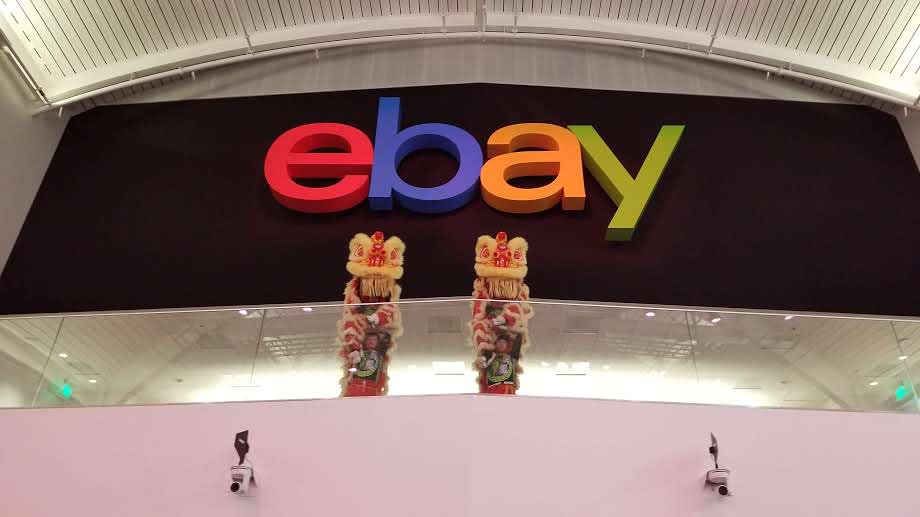
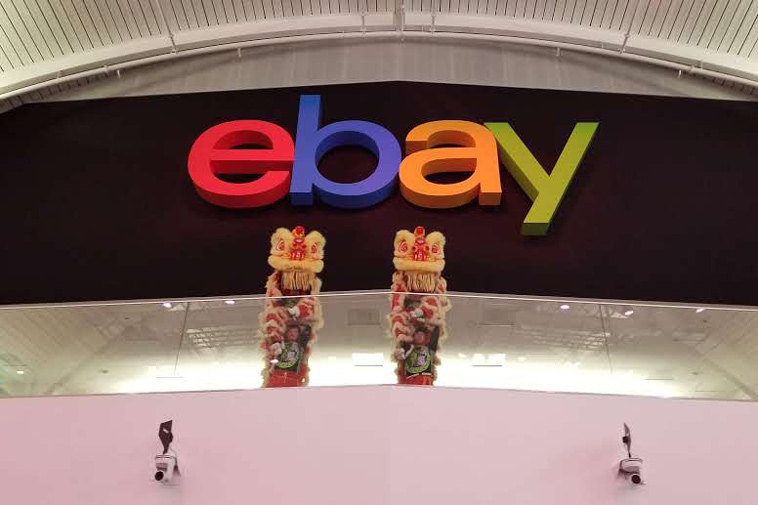
Create website.io

diff --git a/gallery.html b/gallery.html
@@ -48,6 +48,14 @@
 </div>
 
 
+<!-- Top logo -->
+<div class="main">
+    <div class="one">
+<img class="toplogo" src="images/char.svg" alt="logo" />
+    </div>
+    <div class="eleven"> </div>
+</div>
+
 
 
 
@@ -76,11 +84,11 @@ Gallery     </div>
 
 <div class="main">
     <div class="six">
-<img class="gallery" src="images/1.jpg" alt="mainbanner" />
+<img class="gallery" src="images/1.jpg" alt="liondancewedding" />
 </div>
 
     <div class="six">
-        <img class="gallery" src="images/2.jpg" alt="mainbanner" />
+        <img class="gallery" src="images/2.jpg" alt="liondancewedding" />
 
     </div>
 </div>
@@ -88,11 +96,11 @@ Gallery     </div>
 
 <div class="main">
     <div class="six">
-<img class="gallery" src="images/3.jpg" alt="mainbanner" />
+<img class="gallery" src="images/3.jpg" alt="liondancemuseumofart" />
 </div>
 
     <div class="six">
-        <img class="gallery" src="images/4.jpg" alt="mainbanner" />
+        <img class="gallery" src="images/4.jpg" alt="liondanceebay" />
 
     </div>
 </div>
@@ -101,11 +109,11 @@ Gallery     </div>
 
 <div class="main">
     <div class="six">
-<img class="gallery" src="images/5.jpg" alt="mainbanner" />
+<img class="gallery" src="images/5.jpg" alt="liondanceebay" />
 </div>
 
     <div class="six">
-        <img class="gallery" src="images/6.jpg" alt="mainbanner" />
+        <img class="gallery" src="images/6.jpg" alt="liondanceebay" />
 
     </div>
 </div>
@@ -113,11 +121,11 @@ Gallery     </div>
 
 <div class="main">
     <div class="six">
-<img class="gallery" src="images/7.jpg" alt="mainbanner" />
+<img class="gallery" src="images/7.jpg" alt="samsungliondance" />
 </div>
 
     <div class="six">
-        <img class="gallery" src="images/8.jpg" alt="mainbanner" />
+        <img class="gallery" src="images/8.jpg" alt="liondancewedding" />
 
     </div>
 </div>
@@ -125,11 +133,11 @@ Gallery     </div>
 
 <div class="main">
     <div class="six">
-<img class="gallery" src="images/9.jpg" alt="mainbanner" />
+<img class="gallery" src="images/9.jpg" alt="liondancewedding" />
 </div>
 
     <div class="six">
-        <img class="gallery" src="images/10.jpg" alt="mainbanner" />
+        <img class="gallery" src="images/10.jpg" alt="liondancewedding" />
 
     </div>
 </div>
@@ -137,11 +145,11 @@ Gallery     </div>
 
 <div class="main">
     <div class="six">
-<img class="gallery" src="images/11.jpg" alt="mainbanner" />
+<img class="gallery" src="images/11.jpg" alt="liondance" />
 </div>
 
     <div class="six">
-        <img class="gallery" src="images/12.jpg" alt="mainbanner" />
+        <img class="gallery" src="images/12.jpg" alt="liondance" />
 
     </div>
 </div>
@@ -150,9 +158,10 @@ Gallery     </div>
 
 <div class="main">
     <div class="twelve center">
-<iframe width="900" height="600" src="https://www.youtube.com/embed/ZsIoinPZJ1I?controls=0" frameborder="0" allow="accelerometer; autoplay; encrypted-media; gyroscope; picture-in-picture" allowfullscreen></iframe>
+<iframe width="1280" height="900" src="https://www.youtube.com/embed/ZsIoinPZJ1I?controls=0" frameborder="0" allow="accelerometer; autoplay; encrypted-media; gyroscope; picture-in-picture" allowfullscreen></iframe>
 </div>
 </div>
+
 
 
    <br>

diff --git a/style.css b/style.css
@@ -9,6 +9,27 @@
   position: absolute;
 }
 
+
+.cirlcepng {
+  /* width: 100%;
+    height: 100%;
+  background-image:url(images/circle.png);  */
+  background-color:transparent;
+  background-position:center;
+  /* margin-top:-25px; */
+  z-index:1;
+/*   position: absolute;
+   */  background-repeat: no-repeat;
+margin-bottom:200px;px;
+}
+
+.toplogo {
+  width: 9%;
+  height: 9%;
+  margin-top:-70px;
+  z-index:1;
+  position: absolute;
+}
 .homeBanner {
   width: 100%;
   /* background-image:url(../images/banner2.jpg); */
@@ -22,7 +43,7 @@
 
 .teamHomebanner {
   width: 100%;
-  height: 450px;
+  height: 480px;
   background-color:transparent;
   background-position:;
   margin-top:100px;
@@ -53,8 +74,8 @@ position: relative;
 
 
 .gallery{
-height:450px;
-width: 500px;
+height:580px;
+width: 640px;
   z-index:auto;
  display: inline-block;
 position: relative;
@@ -121,7 +142,7 @@ text-align: center;
 font-size: 65px;
 font-weight:400px;
 font-style:normal;
-margin-bottom:500px;
+margin-bottom:0px;
 margin-top: 0px;
 }
 
@@ -179,6 +200,13 @@ font-size:65px;
 font-style: normal;
 }
 
+
+
+
+
+
+
+
 /* Navigation Bar */
 .topnav {
   overflow: hidden;
@@ -189,7 +217,7 @@ color:#ffffff ;
 
   float: right;
   text-align: center;
-  padding: 20px 10px 14px 20px;
+  padding: 23px 15px 14px 20px;
   text-decoration: none;
   font-family: 'bebas-neue', sans-serif;
 font-weight: 700px;
@@ -197,9 +225,9 @@ font-size: 30px;
 top-margin:10px;
 }
 
-/* .topnav a:hover {
-  color: #ddd;
-} */
+.topnav a:hover {
+  color:red;
+
 
 /* .topnav a.active {
   background-color: #4CAF50;

diff --git a/contact.html b/contact.html
@@ -31,8 +31,7 @@
 
 <!--  Navigation bar -->
 <div class="main">
-    <div class="six">
-        </div>
+    <div class="six"></div>
         <div class="six">
                 <div class="topnav">
 
@@ -41,10 +40,17 @@
                 <a href="services.html">Services</a>
                 <a href="about.html">About</a>
                 <a href="index.html">Home</a>
-
-
                 </div>
         </div>
+
+
+
+<!-- Top logo -->
+<div class="main">
+    <div class="one">
+<img class="toplogo" src="images/char.svg" alt="logo" />
+    </div>
+    <div class="eleven"> </div>
 </div>
 
 
@@ -52,58 +58,46 @@
 
 
 
-<div class="main">
     <div class="twelve center">
         <div id="mainTitles">
 Contact us    </div>
     </div>
-</div>
 
 
 
 
-<div class="main">
+
+
 <div class ="twelve center">
     <h1> Book us now! </h1>
 </div> 
-</div>
-
-
 <br>
 <br>
-
-
-
-
-
-<div class="main">
     <div class="twelve center">
 <form action="/my-handling-form-page" method="post">
   <div>
     <label for="name">Name:</label>
     <input type="text" id="name" name="user_name">
   </div>
-
   <div>
     <label for="mail">E-mail:</label>
     <input type="email" id="mail" name="user_email">
   </div>
-
   <div>
     <label for="msg">Message:</label>
     <textarea id="msg" name="user_message"></textarea>
   </div>
- 
   <div class="button">
     <button type="submit">Send your message</button>
   </div>
 </form>
 </div>
 
-</div>
+
    <br>
     <br>
     <br>
+</div>
 
 
 </body>

diff --git a/index.html b/index.html
@@ -21,6 +21,11 @@
 
 <img class="homeBanner" src="images/homebanner.jpg" alt="mainbanner" />
 
+<!-- <img class="cirlcepng" src="images/circle.png" alt="logo" />
+ -->
+
+
+
 
 
 
@@ -47,6 +52,16 @@
 </div>
 
 
+<!-- Top logo -->
+<div class="main">
+    <div class="one">
+       <!--  <div class="toplogo" -->
+<img class="toplogo" src="images/char.svg" alt="logo" />
+<!-- </div> -->
+    </div>
+
+    <div class="eleven"> </div>
+</div>
 
 
 
@@ -66,8 +81,13 @@ San Jose California
 </div>
 
 
+<div class="twelve center">
+<img class="cirlcepng" src="images/circle.png" alt="logo" />
+
+</div>
 
 
+ 
 
 
 

diff --git a/about.html b/about.html
@@ -49,6 +49,14 @@
 
 
 
+<!-- Top logo -->
+<div class="main">
+    <div class="one">
+<img class="toplogo" src="images/char.svg" alt="logo" />
+    </div>
+    <div class="eleven"> </div>
+</div>
+
 
 
 

diff --git a/services.html b/services.html
@@ -49,6 +49,14 @@
 
 
 
+<!-- Top logo -->
+<div class="main">
+    <div class="one">
+<img class="toplogo" src="images/char.svg" alt="logo" />
+    </div>
+    <div class="eleven"> </div>
+</div>
+
 
 
 
